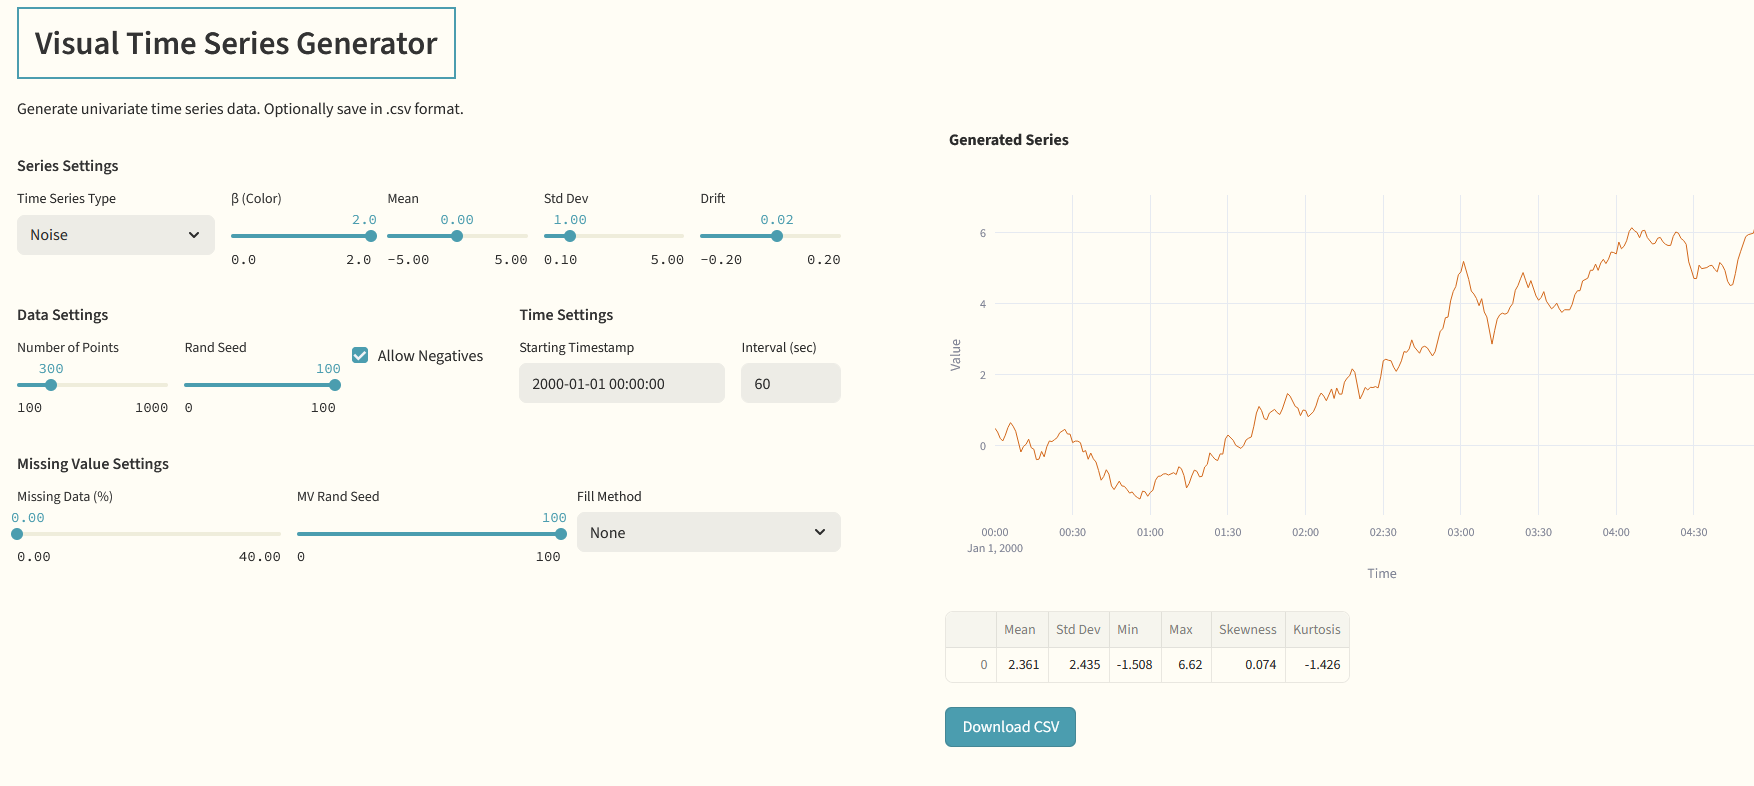
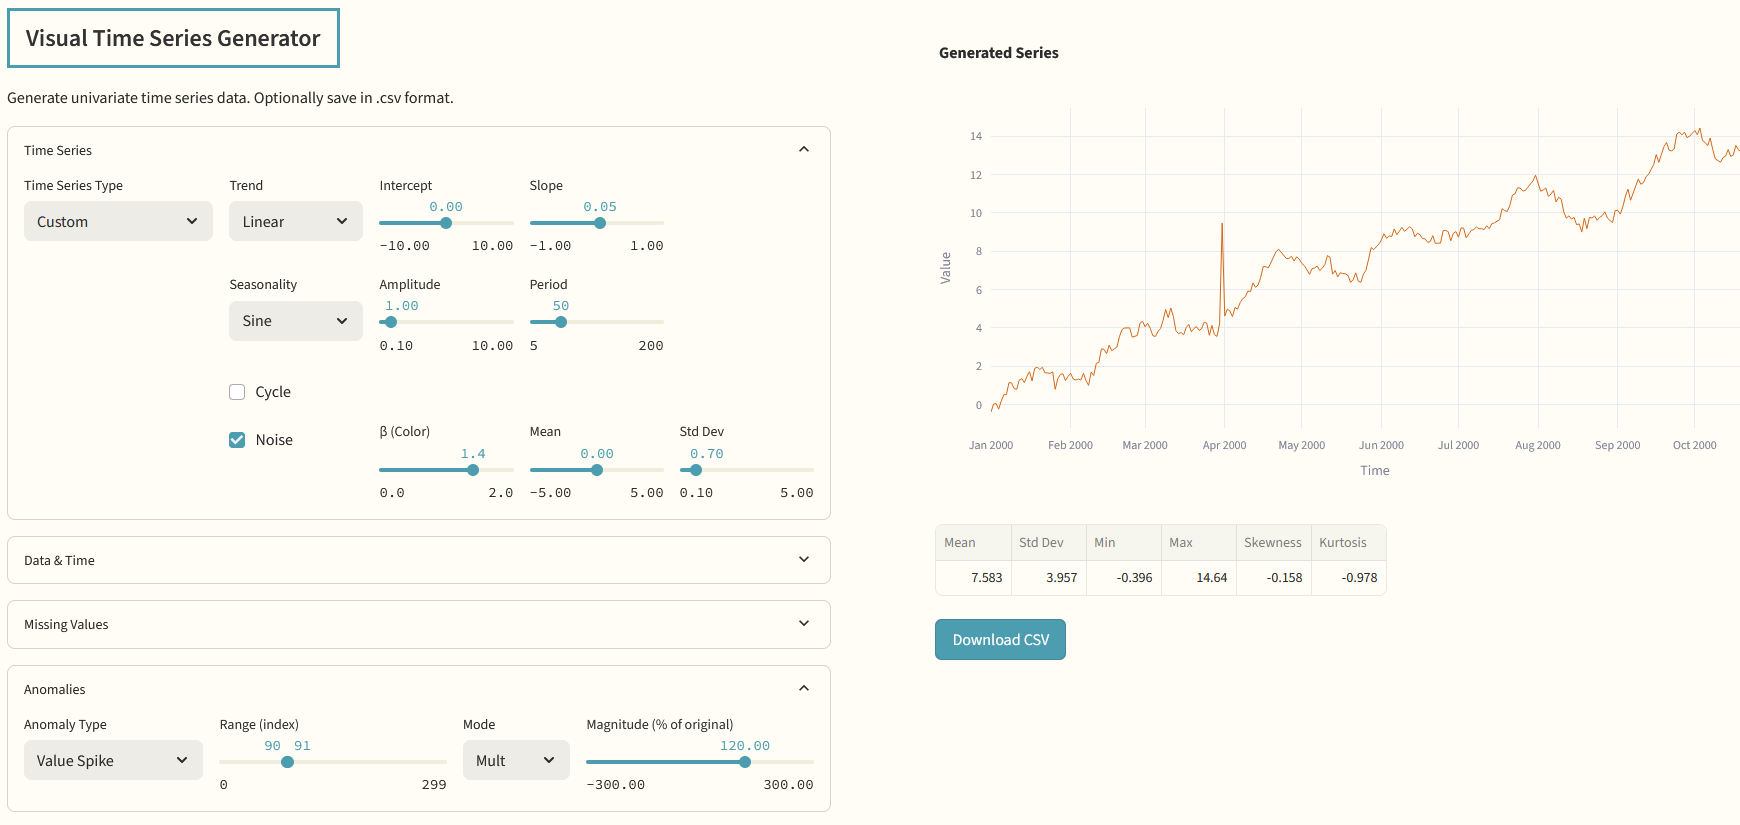
updated README and screenshot

diff --git a/README.md b/README.md
@@ -7,10 +7,11 @@
 [![Try the App](https://img.shields.io/badge/TRY%20THE%20APP-blue?logo=streamlit)](https://timeseriesgenerator.streamlit.app/)
 
 
-This repository contains the code for a Streamlit app that generates univariate time series data. It's designed for visual experimentation, teaching, and simulation. The app supports multiple structural components such as trend and seasonality, as well as missing values.
+This repository contains the code for a Streamlit app that generates univariate time series data. It's designed for visual experimentation, teaching, and simulation. The app supports multiple structural components such as trend and seasonality, as well as missing values and anomalies.
 
 **Features**
 - Interactive controls for several types of time series
+- Controls for missing values and anomalies
 - CSV export for generated series
 - Dynamic plot and summary stats
 
@@ -28,4 +29,4 @@ You can choose from predefined series types or build a custom one. For custom se
 - Add a cyclical component with decay
 - Add colored noise with adjustable parameters
 
-The app then generates and plots the resulting time series. You can export it for use in modeling, testing, or teaching.
+The app then generates and plots the resulting time series. You can also export the data as a .csv file.
